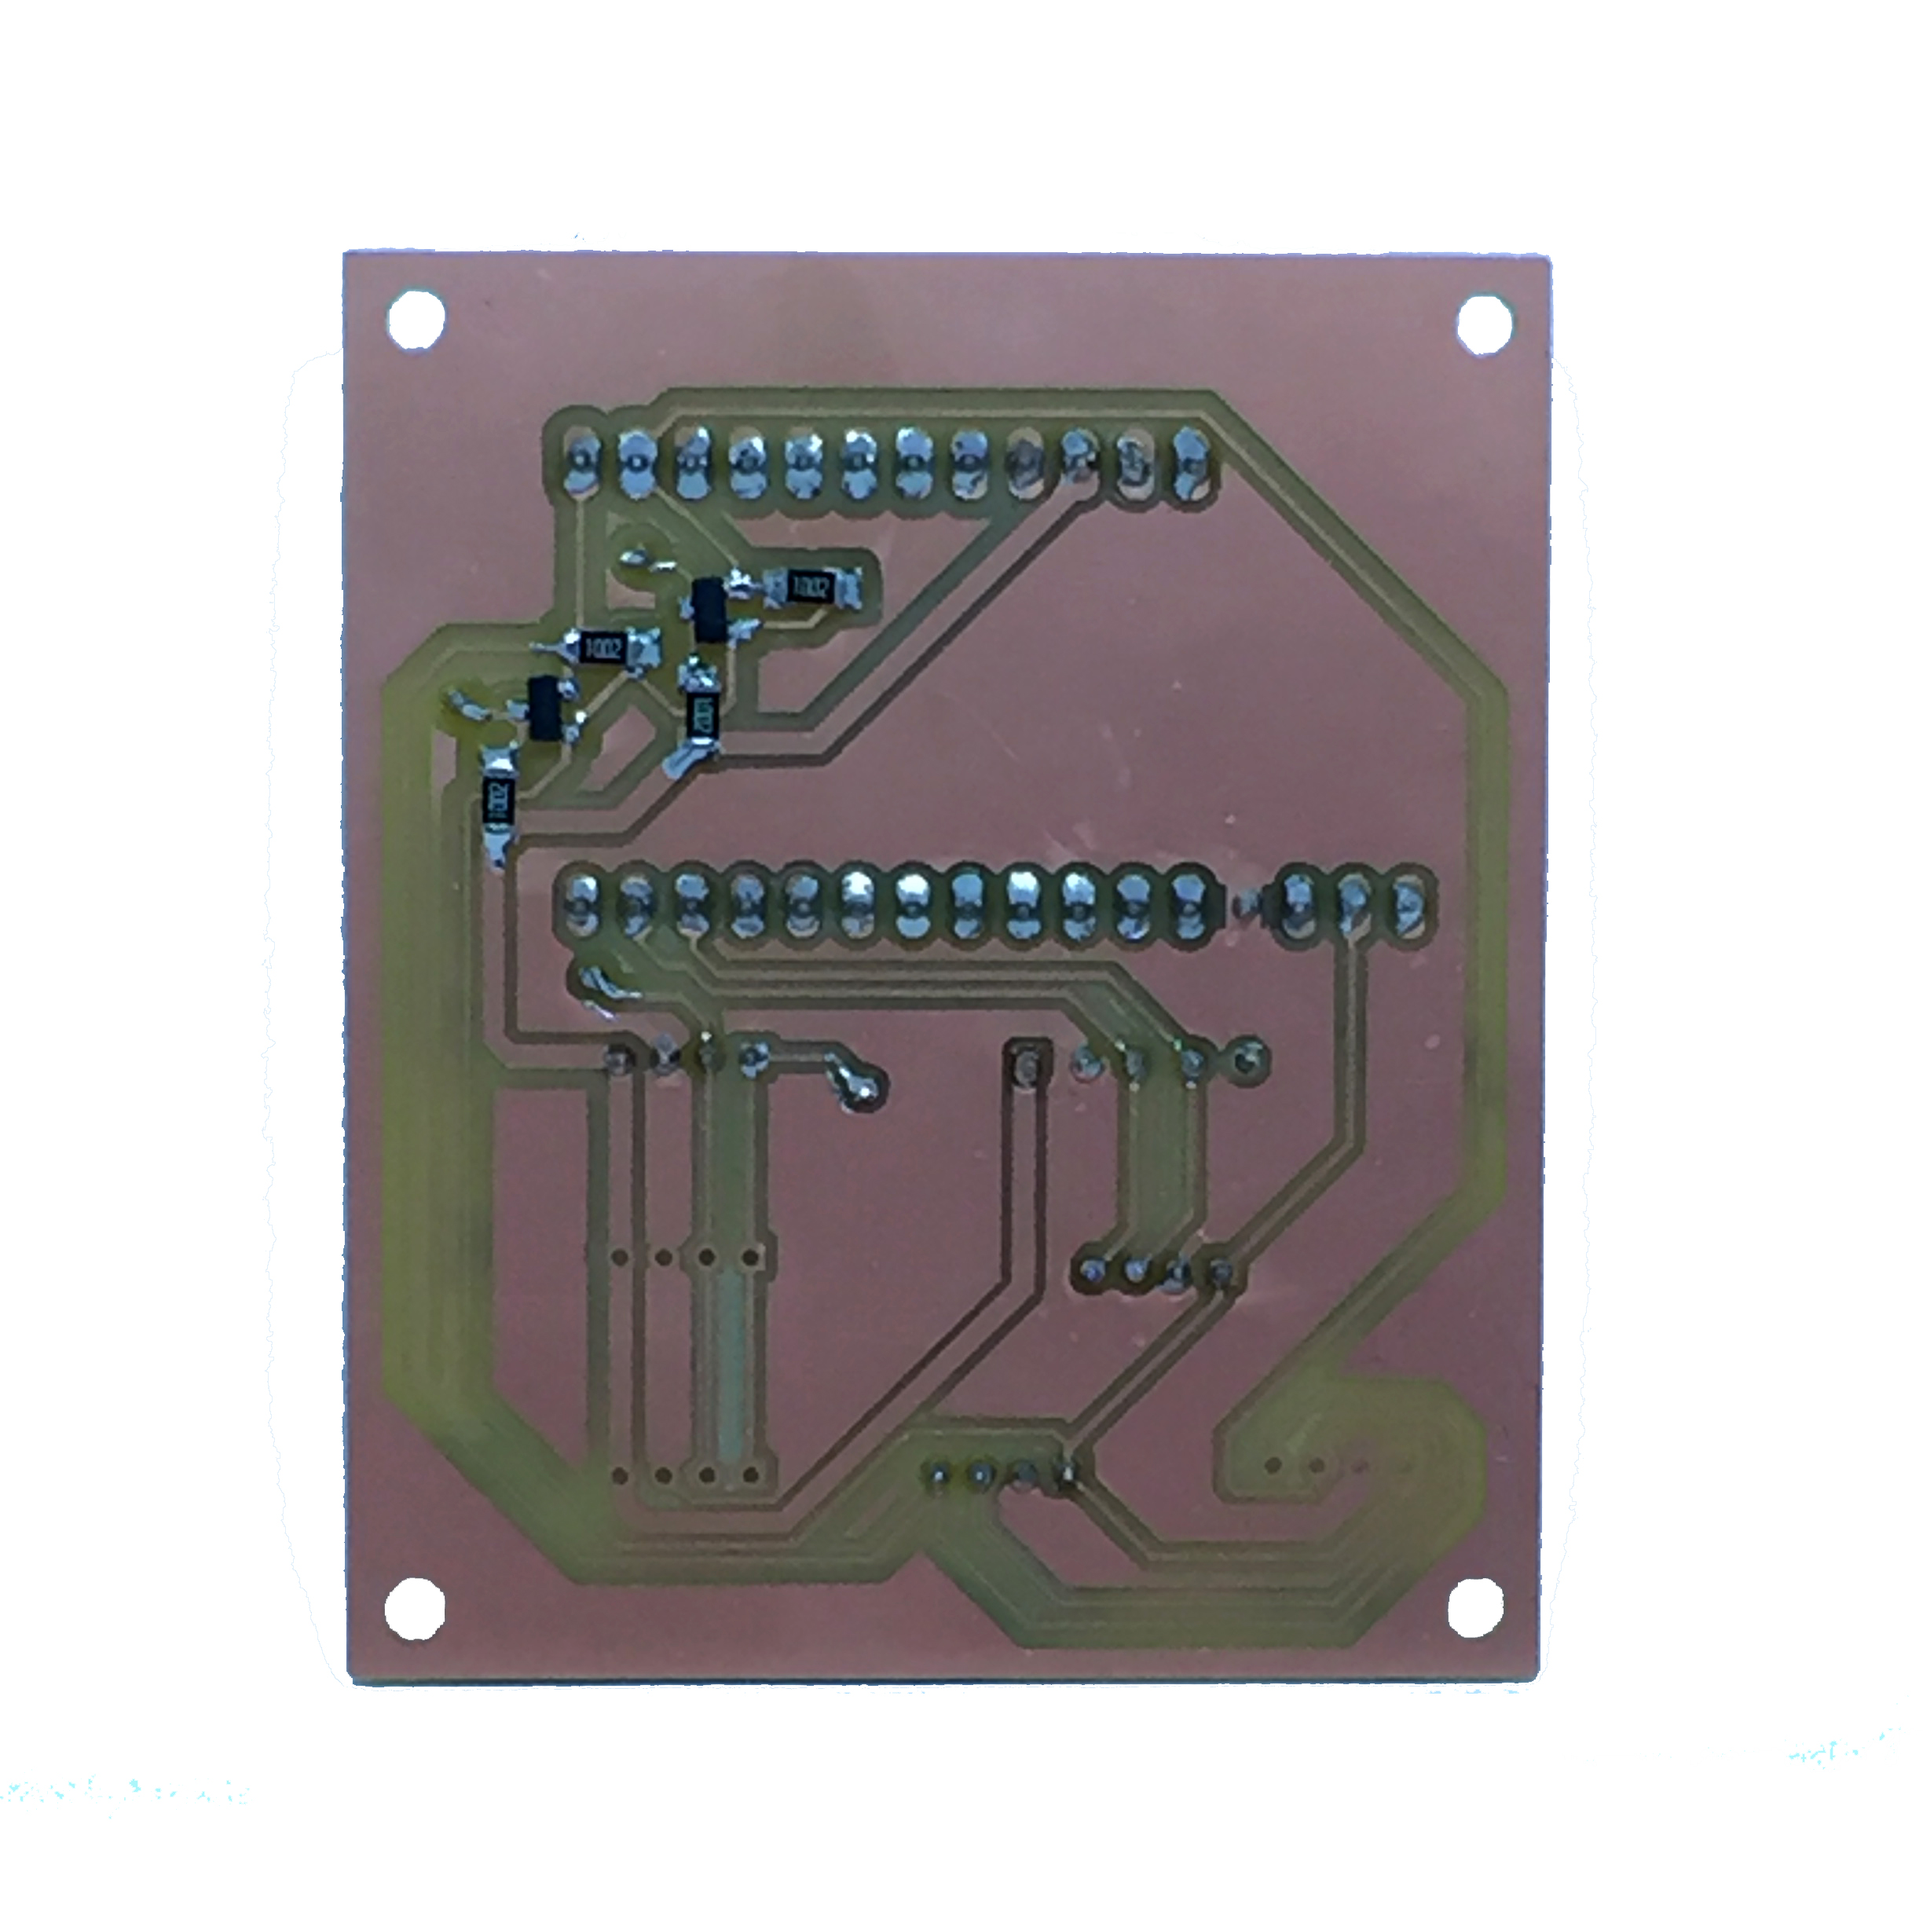
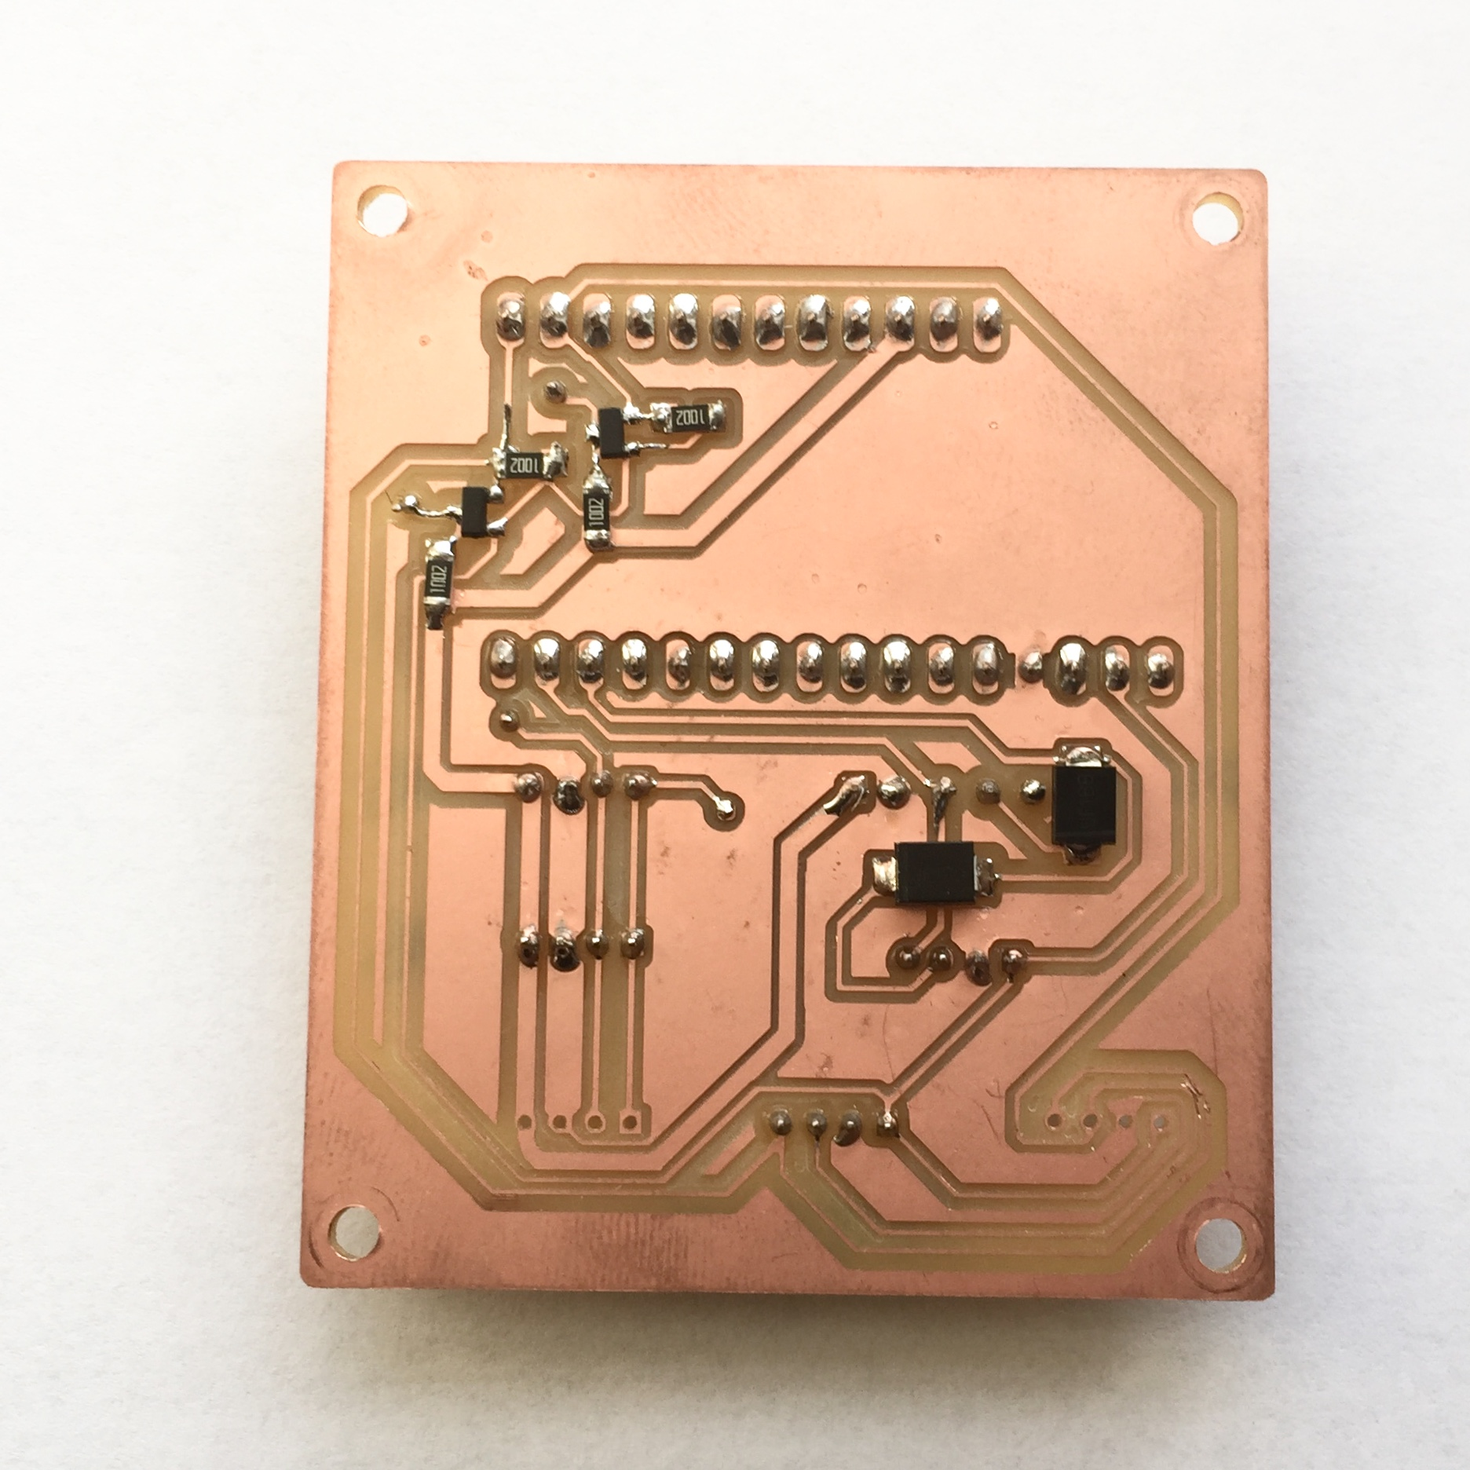
update sensors pcb

diff --git a/MUV Kit/Hardware/README.md b/MUV Kit/Hardware/README.md
@@ -4,7 +4,7 @@
 | top view  | bottom view |
 | ------------- | ------------- |
 | <img src="images/sensors_pcb_top_view.png" width="300">| <img src="images/sensors_pcb_bottom_view.png" width="300"> |
-| Components placed on the top layer  <br> but solder on the bottom! <br> <img src="images/sensors_pcb_top_components.png" width="300"> <br> JP1: female THT 1x12 pin header, 2.54pitch <br> JP2: female THT 1x16 pin header 2.54pitch <br> J-GAS, J-DB. J-BME : Grove - Universal 4 Pin connector <br> 05-JST-B5B: Connector Wire-To-Board, B5B-XH-A (LF)(SN) <br> red traces: jumper wires between vias| Components placed on the bottom layer <br> and solder on the bottom side <br> <img src="images/sensors_pcb_bottom_components.png" width="300"> <br> Q1/Q2 : BSS138 mosfet, also the NDS355AN from the fab inventory is ok. <br> R1/R2/R3/R4 : 10 Kohm <br> D1/D2 : diodes <br><br>|
+| Components placed on the top layer  <br> but soldered on the bottom! <br> <img src="images/sensors_pcb_top_components.png" width="300"> <br> JP1: female THT 1x12 pin header, 2.54pitch <br> JP2: female THT 1x16 pin header 2.54pitch <br> J-GAS, J-DB. J-BME : Grove - Universal 4 Pin connector <br> 05-JST-B5B: Connector Wire-To-Board, B5B-XH-A (LF)(SN) <br> red traces: jumper wires between vias| Components placed on the bottom layer <br> and soldered on the bottom side <br> <img src="images/sensors_pcb_bottom_components.png" width="300"> <br> Q1/Q2 : BSS138 mosfet, also the NDS355AN from the fab inventory is ok. <br> R1/R2/R3/R4 : 10 Kohm <br> D1/D2 : diodes <br><br><br>|
 | <img src="images/sensors_pcb_top.jpg" width="300">  | <img src="images/sensors_pcb_bottom.jpg" width="300">|
 
 On the sensors pcb, it is not necessary to use all the connectors.
@@ -14,7 +14,7 @@ Depending on the sensors you want you use you can solder the required sockets. T
 | top view  | bottom view |
 | ------------- | ------------- |
 |<img src="images/interface_pcb_top_view.png"  width="300">  | |
-|Components placed on the top layer <br> <img src="images/interface_pcb_top.jpg"  width="300">  <br> SW_RST, SW_CONFIG: push button, smd, 6mm <br> LED1: WS2812B smd <br> R1: 10K res, smd, 1206 <br> R2: 470 ohm res, smd, 1206 <br> C1: 0.1uF cap, smd, 1206| Components placed on the top layer <br> <img src="images/interface_pcb_bottom.jpg"  width="300"> <br> JP3: female THT 1x12 pin header, 2.54pitch <br> JP1: female THT 1x16 pin header 2.54pitch <br><br><br><br>|
+|Components placed on the top layer <br> <img src="images/interface_pcb_top.jpg"  width="300">  <br> SW_RST, SW_CONFIG: push button, smd, 6mm <br> LED1: WS2812B smd <br> R1: 10K res, smd, 1206 <br> R2: 470 ohm res, smd, 1206 <br> C1: 0.1uF cap, smd, 1206| Components placed on the bottom layer <br> <img src="images/interface_pcb_bottom.jpg"  width="300"> <br> JP3: female THT 1x12 pin header, 2.54pitch <br> JP1: female THT 1x16 pin header 2.54pitch <br><br><br><br>|
 
 #### Temp/Hum pcb
 | top view  | bottom view |
